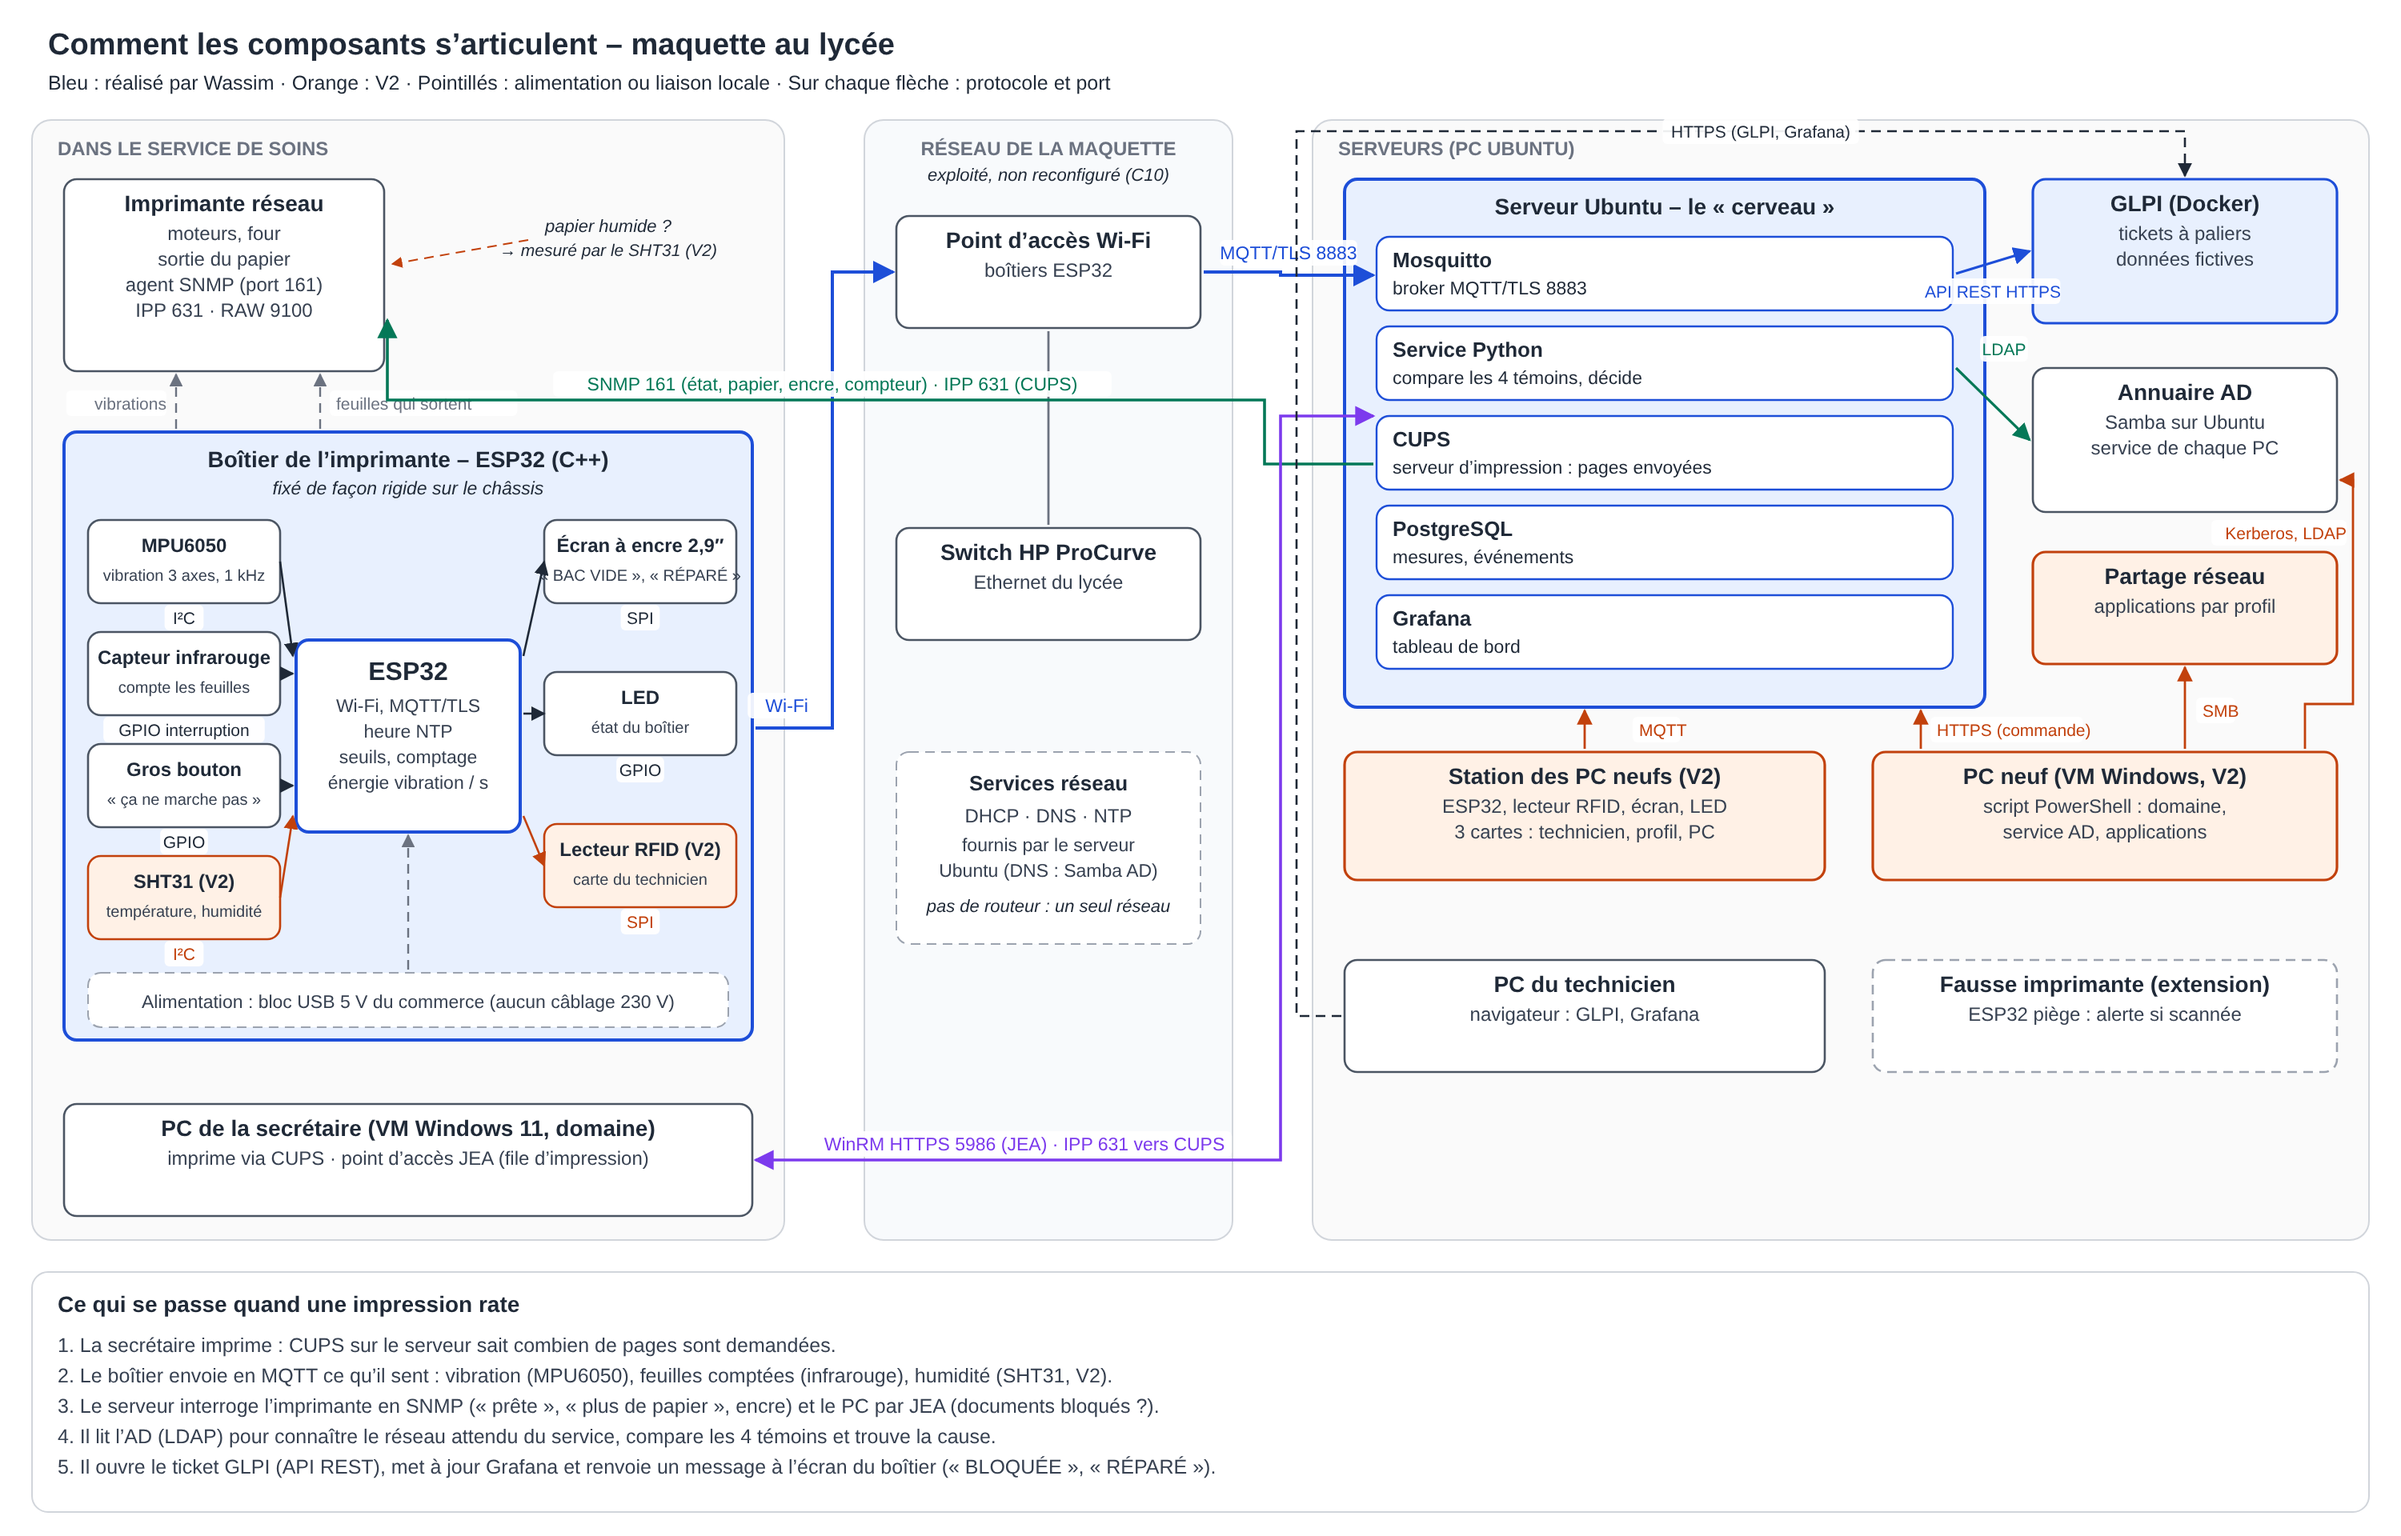
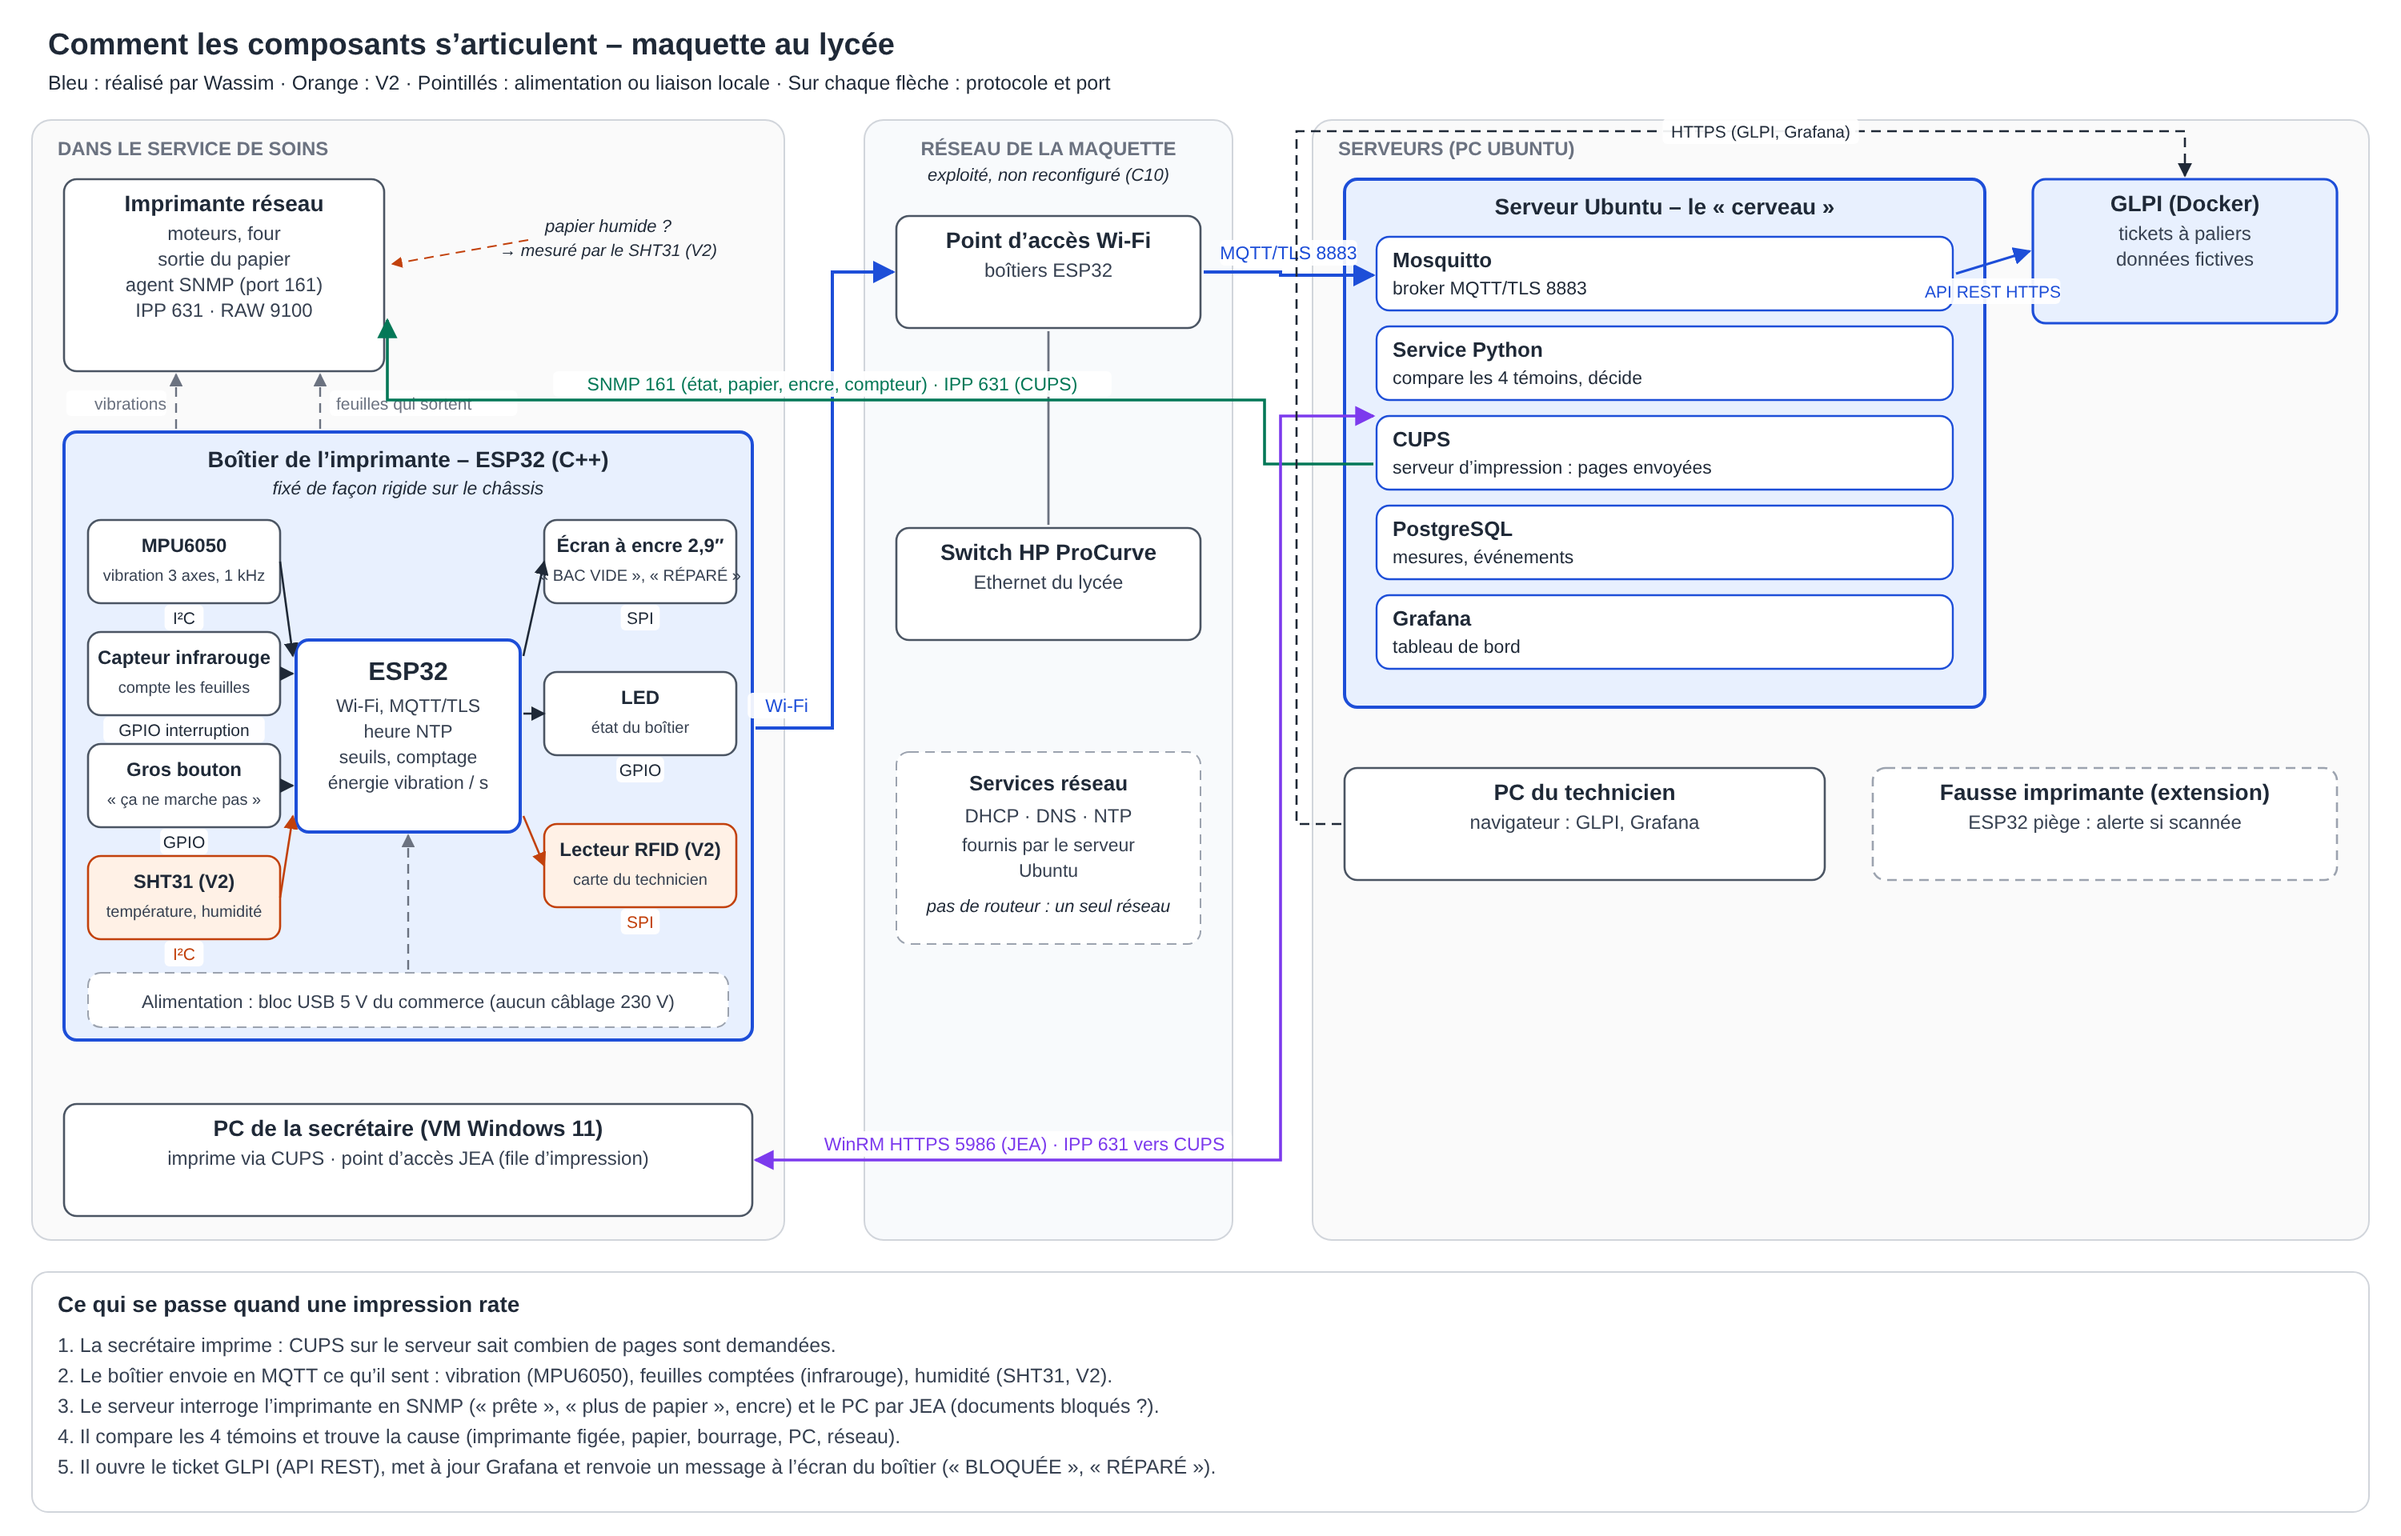
Wassim : schéma des composants sans annuaire AD ni station des PC neufs
Claude-Session: https://claude.ai/code/session_01RJZrKzRURMg84k7wKZrpbC

diff --git a/Projet apprenti 1/projet-v4/schema-composants/schema.py b/Projet apprenti 1/projet-v4/schema-composants/schema.py
@@ -62,7 +62,7 @@ t(380, 145, "papier humide ?", 11, ORA, it=True); ln([(330, 150), (245, 165)], O
 t(380, 160, "→ mesuré par le SHT31 (V2)", 10.5, ORA, it=True)
 
 # PC secrétaire
-box(40, 690, 430, 70, "PC de la secrétaire (VM Windows 11, domaine)", ["imprime via CUPS · point d’accès JEA (file d’impression)"])
+box(40, 690, 430, 70, "PC de la secrétaire (VM Windows 11)", ["imprime via CUPS · point d’accès JEA (file d’impression)"])
 
 # ---------------- réseau
 r(540, 75, 230, 700, "#f8fafc", "#d1d5db", 1, rx=12); t(655, 97, "RÉSEAU DE LA MAQUETTE", 12, "bold", GREY)
@@ -71,7 +71,7 @@ box(560, 135, 190, 70, "Point d’accès Wi-Fi", ["boîtiers ESP32"])
 box(560, 330, 190, 70, "Switch HP ProCurve", ["Ethernet du lycée"])
 r(560, 470, 190, 120, "#fff", "#9ca3af", 1, True); t(655, 494, "Services réseau", 13, "bold")
 t(655, 514, "DHCP · DNS · NTP", 12, c="#374151"); t(655, 532, "fournis par le serveur", 11.5, c="#374151")
-t(655, 548, "Ubuntu (DNS : Samba AD)", 11.5, c="#374151"); t(655, 570, "pas de routeur : un seul réseau", 11, GREY, it=True)
+t(655, 548, "Ubuntu", 11.5, c="#374151"); t(655, 570, "pas de routeur : un seul réseau", 11, GREY, it=True)
 ln([(655, 207), (655, 328)], GREY, 1.4, False, False)
 
 # ---------------- serveurs
@@ -83,12 +83,8 @@ for i, (n, l) in enumerate(mods):
     y = 148 + i*56
     r(860, y, 360, 46, "#fff", BLUE, 1.2); t(870, y + 19, n, 13, "bold", a="start"); t(870, y + 36, l, 11.5, "#374151", a="start")
 box(1270, 112, 190, 90, "GLPI (Docker)", ["tickets à paliers", "données fictives"], BBG, BLUE)
-box(1270, 230, 190, 90, "Annuaire AD", ["Samba sur Ubuntu", "service de chaque PC"])
-box(1270, 345, 190, 70, "Partage réseau", ["applications par profil"], OBG, ORA)
-box(840, 470, 300, 80, "Station des PC neufs (V2)", ["ESP32, lecteur RFID, écran, LED", "3 cartes : technicien, profil, PC"], OBG, ORA)
-box(1170, 470, 290, 80, "PC neuf (VM Windows, V2)", ["script PowerShell : domaine,", "service AD, applications"], OBG, ORA)
-box(840, 600, 300, 70, "PC du technicien", ["navigateur : GLPI, Grafana"])
-box(1170, 600, 290, 70, "Fausse imprimante (extension)", ["ESP32 piège : alerte si scannée"], "#fff", "#9ca3af", True)
+box(840, 480, 300, 70, "PC du technicien", ["navigateur : GLPI, Grafana"])
+box(1170, 480, 290, 70, "Fausse imprimante (extension)", ["ESP32 piège : alerte si scannée"], "#fff", "#9ca3af", True)
 
 # ---------------- liaisons (protocoles)
 ln([(472, 455), (520, 455), (520, 170), (558, 170)], BLUE, 2)
@@ -98,12 +94,7 @@ ln([(858, 290), (790, 290), (790, 250), (242, 250), (242, 200)], GRN, 1.8); lab(
 ln([(472, 725), (800, 725), (800, 260), (858, 260)], PUR, 1.8, start=True)
 lab(640, 719, "WinRM HTTPS 5986 (JEA) · IPP 631 vers CUPS", PUR)
 ln([(1222, 171), (1268, 157)], BLUE, 1.6); lab(1245, 186, "API REST HTTPS", BLUE, sz=10.5)
-ln([(1222, 230), (1268, 275)], GRN, 1.6); lab(1252, 222, "LDAP", GRN, sz=10.5)
-ln([(1200, 468), (1200, 444)], ORA, 1.4); lab(1206, 460, "HTTPS (commande)", ORA, "start", 10.5)
-ln([(990, 468), (990, 444)], ORA, 1.4); lab(1020, 460, "MQTT", ORA, "start", 10.5)
-ln([(1365, 468), (1365, 417)], ORA, 1.4); lab(1372, 448, "SMB", ORA, "start", 10.5)
-ln([(1440, 468), (1440, 440), (1470, 440), (1470, 300), (1462, 300)], ORA, 1.4); lab(1466, 337, "Kerberos, LDAP", ORA, "end", 10.5)
-ln([(838, 635), (810, 635), (810, 82), (1365, 82), (1365, 110)], INK, 1.3, dash=True); lab(1100, 86, "HTTPS (GLPI, Grafana)", INK, sz=10.5)
+ln([(838, 515), (810, 515), (810, 82), (1365, 82), (1365, 110)], INK, 1.3, dash=True); lab(1100, 86, "HTTPS (GLPI, Grafana)", INK, sz=10.5)
 
 # ---------------- légende étapes
 r(20, 795, 1460, 150, "#fff", "#d1d5db", 1, rx=10)
@@ -111,7 +102,7 @@ t(36, 820, "Ce qui se passe quand une impression rate", 14, "bold", a="start")
 steps = ["1. La secrétaire imprime : CUPS sur le serveur sait combien de pages sont demandées.",
          "2. Le boîtier envoie en MQTT ce qu’il sent : vibration (MPU6050), feuilles comptées (infrarouge), humidité (SHT31, V2).",
          "3. Le serveur interroge l’imprimante en SNMP (« prête », « plus de papier », encre) et le PC par JEA (documents bloqués ?).",
-         "4. Il lit l’AD (LDAP) pour connaître le réseau attendu du service, compare les 4 témoins et trouve la cause.",
+         "4. Il compare les 4 témoins et trouve la cause (imprimante figée, papier, bourrage, PC, réseau).",
          "5. Il ouvre le ticket GLPI (API REST), met à jour Grafana et renvoie un message à l’écran du boîtier (« BLOQUÉE », « RÉPARÉ »)."]
 for i, s in enumerate(steps):
     t(36, 845 + i*19, s, 12.5, c="#374151", a="start")
